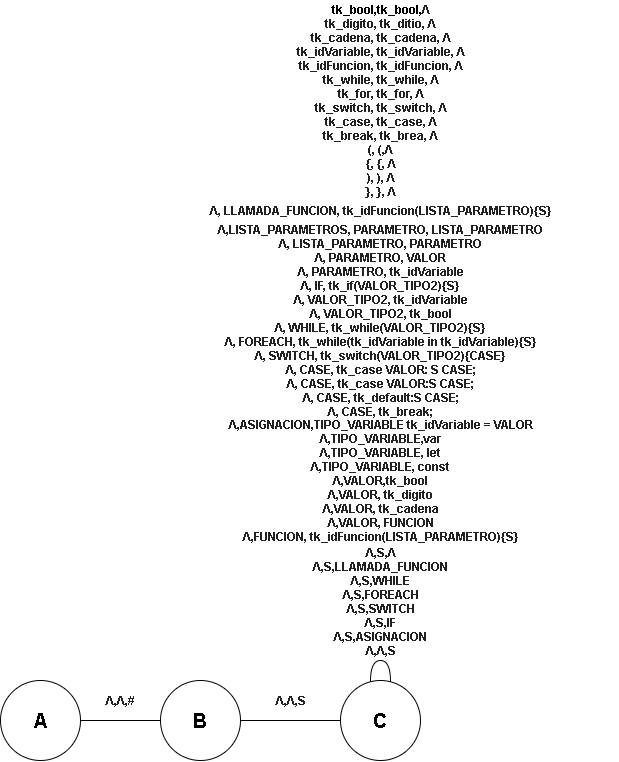
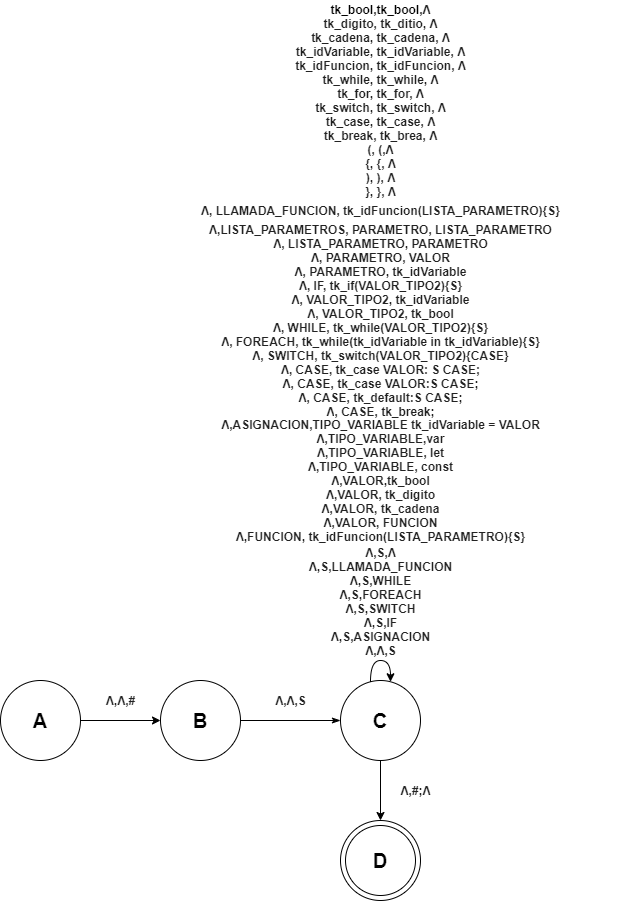
pila

diff --git a/prueba.js b/prueba.js
@@ -1,0 +1,9 @@
+if ( id ) { /* Contenido del if */ 
+while ( id ) { /* Contenido del while */ 
+foreach ( elemento in coleccion ) { /* Contenido del for */ 
+var nuevo = "Nel"
+}
+}
+}
+
+

diff --git a/main.py b/main.py
@@ -66,13 +66,209 @@ def pilaInteractiva():
         print("-> El script esta vacio")
     else:
         tokens=AFD.manejo(script, False)
-        for i in range(len(tokens)):
-            print(tokens[i])
+        gramatica(tokens)
     menu()
 
 def generarDiagrama():
     print()
+
+
+def gramatica(tokens):
+    pila = ["S","#"]
+    foreach= False
+    pilaString =""
+    faltaCierre = 0
+    #27
+    pilaString = makePilaString(["Pila"])
+    print(pilaString+"|Transicion")
+    pilaString = makePilaString(["Λ"])
+    print(pilaString+"|(A,Λ,Λ;B,#)")
+    entrada = input()
+    pilaString = makePilaString(["#"])
+    print(pilaString+"|(B,Λ,Λ;C,S)")
+    estado = 0
+    entrada = input()
+    pilaString = makePilaString(pila)
+    print(pilaString+"|(B,Λ,Λ;C,S)")
+    for i in range(len(tokens)):
+        if estado ==0:
+            if pila[0] == "S":
+                entrada = input()
+                if tokens[i][1] == "tk_variable":
+                    pila[0:1] = ["ASIGNACION"]
+                    pilaString = makePilaString(pila)
+                    print(pilaString +"|(Λ,Λ,S;C,ASIGNACION)")
+                    estado = 1
+                elif tokens[i][1] == "tk_if":
+                    pila[0:1] = ["IF"]
+                    pilaString = makePilaString(pila)
+                    print(pilaString +"|(Λ,Λ,S;C,IF)")
+                    estado = 2
+                elif tokens[i][1] == "tk_switch":
+                    pila[0:1] = ["SWITCH"]
+                    pilaString = makePilaString(pila)
+                    print(pilaString +"|(Λ,Λ,S;C,SWITCH)")
+                    estado = 3
+                elif tokens[i][1] == "tk_for":
+                    pila[0:1] = ["FOREACH"]
+                    foreach = True
+                    pilaString = makePilaString(pila)
+                    print(pilaString +"|(Λ,Λ,S;C,FOREACH)")
+                    estado = 2
+                elif tokens[i][1] == "tk_while":
+                    pila[0:1] = ["WHILE"]
+                    pilaString = makePilaString(pila)
+                    print(pilaString +"|(Λ,Λ,S;C,WHILE)")
+                    estado = 2
+                elif tokens[i][1] == "tk_idVariable":
+                    pila[0:1] = ["LLAMADA_FUNCION"]
+                    pilaString = makePilaString(pila)
+                    print(pilaString +"|(Λ,Λ,S;C,LLAMADA_FUNCION)")
+                    estado = 1
+                else:
+                    entrada = input()
+                    pila[0:1] = []
+                    pilaString = makePilaString(pila)
+                    print(pilaString + "|(C,S, S;C,S,Λ)")
+                if tokens[i][1] == "tk_corcheteC" and pila[0] == "}" and faltaCierre > 0:
+                    faltaCierre = faltaCierre - 1
+                    entrada = input()
+                    pila[0:1] = ["S"]
+                    pilaString = makePilaString(pila)
+                    print(pilaString + "|(C,}, };C,},S)")
+                    entrada = input()
+
+        if estado == 1:
+            if pila[0] == "ASIGNACION":
+                entrada = input()
+                pila[0:1] = []
+                pila = ["TIPO_VARIABLE", "tk_idVariable", "=", "VALOR",";"] + pila
+                pilaString = makePilaString(pila)
+                print(pilaString +"|(C,ASIGNACION,ASIGNACION;C,TIPO_VARIABLE tk_idVariable = VALOR;)")
+            if tokens[i][1]=="tk_variable" and pila[0]=="TIPO_VARIABLE":
+                entrada = input()
+                pila[0:1] = ["tk_variable"]
+                pilaString = makePilaString(pila)
+                print(pilaString +"|(C,TIPO_VARIABLE,TIPO_VARIABLE;C,TIPO_VARIABLE, tk_variable)")
+            if pila[0]=="tk_variable":
+                entrada = input()
+                pila[0:1] = []
+                pilaString = makePilaString(pila)
+                print(pilaString +"|(C,tk_variable, tk_variable;C,tk_variable,Λ)")
+            if tokens[i][1]=="tk_idVariable" and pila[0]=="tk_idVariable":
+                entrada = input()
+                pila[0:1] = []
+                pilaString = makePilaString(pila)
+                print(pilaString +"|(C,tk_idVariable, tk_idVariable;C,tk_idVariable , Λ)")
+            if tokens[i][1] == "tk_igualdad" and pila[0] == "=":
+                entrada = input()
+                pila[0:1] = []
+                pilaString = makePilaString(pila)
+                print(pilaString + "|(C,=, =;C,= , Λ)")
+            if pila[0]=="VALOR":
+                if tokens[i][1]=="tk_booleano" or tokens[i][1]=="tk_numerico" or tokens[i][1]=="tk_cadena":
+                    entrada = input()
+                    pila[0:1] = [tokens[i][1]]
+                    pilaString = makePilaString(pila)
+                    print(pilaString + "|(C,VALOR, VALOR;C,VALOR , "+tokens[i][1]+")")
+                    pila[0:1] = []
+                    entrada = input()
+                    pilaString = makePilaString(pila)
+                    print(pilaString + "|(C,"+tokens[i][1]+", "+tokens[i][1]+";C,"+tokens[i][1]+" , Λ)")
+            if pila[0] == ";" and tokens[i][1]=="tk_puntoComa":
+                pila[0:1] = []
+                entrada = input()
+                pila = ["S"] + pila
+                pilaString = makePilaString(pila)
+                estado = 0
+                print(pilaString + "|(C,;, ;;C,; , S)")
+                entrada = input()
+
+        if estado == 2:
+            if pila[0] == "IF":
+                entrada = input()
+                pila[0:1] = []
+                pila = ["tk_if","(","VALOR_TIPO2",")","{","S","}"] + pila
+                pilaString = makePilaString(pila)
+                print(pilaString + "|(C,IF, IF;C,IF , tk_if(VALOR_TIPO2){S})")
+                entrada = input()
+                pila[0:1] = []
+                pilaString = makePilaString(pila)
+                print(pilaString + "|(C,tk_if, tk_if;C,tk_if, Λ")
+            if pila[0] == "WHILE":
+                entrada = input()
+                pila[0:1] = []
+                pila = ["tk_while","(","VALOR_TIPO2",")","{","S","}"] + pila
+                pilaString = makePilaString(pila)
+                print(pilaString + "|(C,WHILE, WHILE;C,WHILE , tk_while(VALOR_TIPO2){S})")
+                entrada = input()
+                pila[0:1] = []
+                pilaString = makePilaString(pila)
+                print(pilaString + "|(C,tk_while, tk_while;C,tk_while, Λ")
+            if pila[0] == "FOREACH":
+                entrada = input()
+                pila[0:1] = []
+                pila = ["tk_for","(","tk_idVariable","tk_idVariable","tk_idVariable",")","{","S","}"] + pila
+                pilaString = makePilaString(pila)
+                print(pilaString + "|(C,FOREACH, FOREACH;C,FOREACH , tk_for(tk_idVariable in tk_idVariable){S})")
+                entrada = input()
+                pila[0:1] = []
+                pilaString = makePilaString(pila)
+                print(pilaString + "|(C,tk_for, tk_for;C,tk_for, Λ")
+
+            if pila[0] == "(" and tokens[i][1]=="tk_parentesisA":
+                entrada = input()
+                pila[0:1] = []
+                pilaString = makePilaString(pila)
+                print(pilaString + "|(C,(, (;C,(, Λ")
+            if pila[0]=="VALOR_TIPO2":
+                if tokens[i][1]=="tk_booleano" or tokens[i][1]=="tk_idVariable":
+                    entrada = input()
+                    pila[0:1] = [tokens[i][1]]
+                    pilaString = makePilaString(pila)
+                    print(pilaString + "|(C,VALOR_TIPO2, VALOR_TIPO2;C,VALOR_TIPO2 , "+tokens[i][1]+")")
+                    pila[0:1] = []
+                    entrada = input()
+                    pilaString = makePilaString(pila)
+                    print(pilaString + "|(C,"+tokens[i][1]+", "+tokens[i][1]+";C,"+tokens[i][1]+" , Λ)")
+            if pila[0]=="tk_idVariable" and tokens[i][1]=="tk_idVariable":
+                entrada = input()
+                pila[0:1] = []
+                pilaString = makePilaString(pila)
+                print(pilaString + "|(C, tk_idVariable, tk_idVariable;C,tk_idVariable, Λ")
+
+            if pila[0]=="in" and tokens[i][0]=="tk_idVariable":
+                entrada = input()
+                pila[0:1] = []
+                pilaString = makePilaString(pila)
+                print(pilaString + "|(C, in, in;C,in, Λ")
+
+            if pila[0]==")" and tokens[i][1]=="tk_parentesisC":
+                entrada = input()
+                pila[0:1] = []
+                pilaString = makePilaString(pila)
+                print(pilaString + "|(C,), );C,), Λ")
+
+            if pila[0]=="{" and tokens[i][1]=="tk_corcheteA":
+                entrada = input()
+                pila[0:1] = []
+                pilaString = makePilaString(pila)
+                print(pilaString + "|(C,{, {;C,}, Λ")
+                faltaCierre = faltaCierre + 1
+                estado = 0
+
+def makePilaString(pila):
+    espacio = ""
+    pilaString = ""
+    for x in pila:
+        pilaString = pilaString + x
+
+    for i in range(50-len(pilaString)):
+        espacio = espacio + " "
+
+    pilaString = pilaString + espacio
+
+    return pilaString
+
 if __name__ == '__main__':
     inicio()
-
-# See PyCharm help at https://www.jetbrains.com/help/pycharm/

diff --git a/AFD.py b/AFD.py
@@ -9,8 +9,8 @@ reservado = [["let","tk_variable","palabra reservada variable"],["var","tk_varia
              ["const","tk_variable","palabra reservada variable"],["if","tk_if","palabra reservada if"],
              ["while","tk_while","Palabra reservada while"],["foreach","tk_for","Palabra reservada for"],
              ["switch","tk_switch","Palabra reservada switch"],
-             ["(","tk_parentesis","parentesis de apertura"],[")","tk_parentesis","parentesis de cierre"],["{","tk_corchete","corchete de apertura"],
-             ["}","tk_corchete","corchete de cierre"],[";","tk_comillas","Simbolo delimitador"],
+             ["(","tk_parentesisA","parentesis de apertura"],[")","tk_parentesisC","parentesis de cierre"],["{","tk_corcheteA","corchete de apertura"],
+             ["}","tk_corcheteC","corchete de cierre"],[";","tk_puntoComa","Simbolo delimitador"],
              ["=>","tk_flecha","Simbolo flecha"],["=","tk_igualdad","Simbolo de igualdad"],[":","tk_puntos","Simbolo de continuidad"],[",","tk_coma","Simbolo separador"],
              ["break","tk_break","Finaliza un caso"],["case","tk_case","Opción de un switch"],["default","tk_default","Opción Switch"]]
 tokens = []
